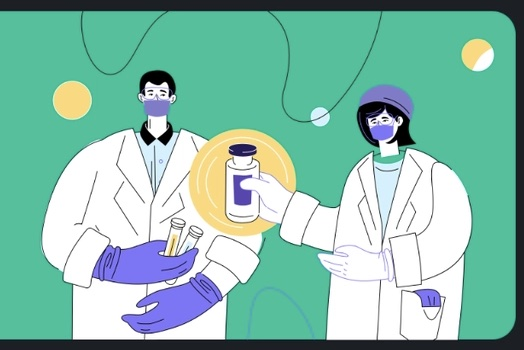
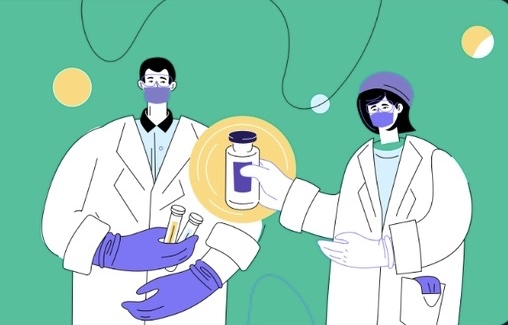
wuild out menu image

diff --git a/css/style.css b/css/style.css
@@ -67,7 +67,6 @@ body {
 
 section, .rowSection, .displayColheader {
   width: 100%;
-  padding: 1em;
 }
 
 h2 {
@@ -109,6 +108,7 @@ h2 {
 }
 .menuColumn .menuImg {
   width: 100%;
+  border-radius: 20px;
 }
 
 .logoDiv {
@@ -141,7 +141,7 @@ h2 {
   height: 0.75em;
 }
 .logoDiv .bars .logoBar:nth-child(3) {
-  background-color: #4EA2FF;
+  background-color: #3493FF;
 }
 
 .linkDiv {
@@ -155,6 +155,33 @@ h2 {
 .linkDiv a {
   text-decoration: none;
   color: #FFFFFF;
+}
+
+.menuMessage {
+  background-color: #3493FF;
+  display: flex;
+  flex-direction: column;
+  align-items: center;
+  justify-content: center;
+  flex-wrap: nowrap;
+  padding: 0.5em 0.5em 0 0.5em;
+  border-radius: 20px;
+}
+.menuMessage > p {
+  margin-bottom: 1em;
+  color: #121418;
+}
+.menuMessage > p:nth-child(1) {
+  background-color: #FFD155;
+  padding: 0.5em;
+  font-size: 0.75em;
+  border-radius: 20px;
+  margin-top: 1em;
+}
+.menuMessage > p:nth-child(2) {
+  font-size: 1.25em;
+  font-weight: bold;
+  text-align: center;
 }
 
 .displayColumn {
@@ -339,7 +366,7 @@ h2 {
 .infoCard .cardheader {
   display: flex;
   flex-direction: row;
-  align-items: center;
+  align-items: flex-start;
   justify-content: space-between;
   flex-wrap: nowrap;
   margin-bottom: 3em;
@@ -354,7 +381,7 @@ h2 {
 }
 
 .makeItPurple {
-  background-color: #C89AFE;
+  background-color: #7C77FA;
 }
 
 .makeItYellow {
@@ -362,7 +389,7 @@ h2 {
 }
 
 .makeItBlue {
-  background-color: #4EA2FF;
+  background-color: #3493FF;
 }
 
 .makeItOrange {

diff --git a/style.scss b/style.scss
@@ -63,7 +63,7 @@ body {
 
 section {
     width: 100%;
-    padding: $section-padding;
+    // padding: $section-padding;
 }
 
 h2 {
@@ -96,6 +96,7 @@ h2 {
     background-color: $black;
     .menuImg {
         width: 100%;
+        border-radius: $main-radius;
     }
 }
 
@@ -134,6 +135,29 @@ h2 {
     a {
         text-decoration: none;
         color: $white;
+    }
+}
+
+.menuMessage {
+    background-color: $color-two;
+    @include flexMe (flex, column, center, center);
+    padding: $small-padding $small-padding 0 $small-padding;
+    border-radius: $main-radius;
+    & > p {
+        margin-bottom: $small-margin;
+        color: $black;
+        &:nth-child(1) {
+            background-color: $color-four;
+            padding: $small-padding;
+            font-size: .75em;
+            border-radius: $main-radius;
+            margin-top: $small-margin;
+        }
+        &:nth-child(2) {
+            font-size: 1.25em;
+            font-weight: bold;
+            text-align: center;
+        }
     }
 }
 
@@ -279,7 +303,7 @@ h2 {
     margin-bottom: $inner-margin;
     padding: $section-padding;
     .cardheader {
-        @include flexMe (flex, row, center, space-between);
+        @include flexMe (flex, row, flex-start, space-between);
         margin-bottom: $reg-margin;
     }
     .cardStat {

diff --git a/index.html b/index.html
@@ -43,8 +43,10 @@
                     </div>
                 </nav>
             </section>
-            <section>
-                <img src="./images/Xnip2023-01-25_18-55-39.jpg" alt="" class="menuImg round">
+            <section class="menuMessage">
+                <p>NEW</p>
+                <p>Veteran Affairs Hospital</p>
+                <img src="./images/Xnip2023-01-29_13-25-12.jpg" alt="" class="menuImg">
             </section>
         </div>
         <div class="displayColumn innerCol">

diff --git a/assets/_var.scss b/assets/_var.scss
@@ -5,8 +5,10 @@ $white: #FFFFFF;
 $white-alpha: rgba(255, 255, 255, .7);
 $main-color: #00C29A;
 $alt-main-color: #00E7B6;
-$color-two: #4EA2FF;
-$color-three: #C89AFE;
+$color-two: #3493FF;
+// $color-two: #4EA2FF;
+$color-three: #7C77FA;
+// $color-three: #C89AFE;
 $color-four: #FFD155;
 $color-five: #FDC798;
 $color-six: #F8FD99;
